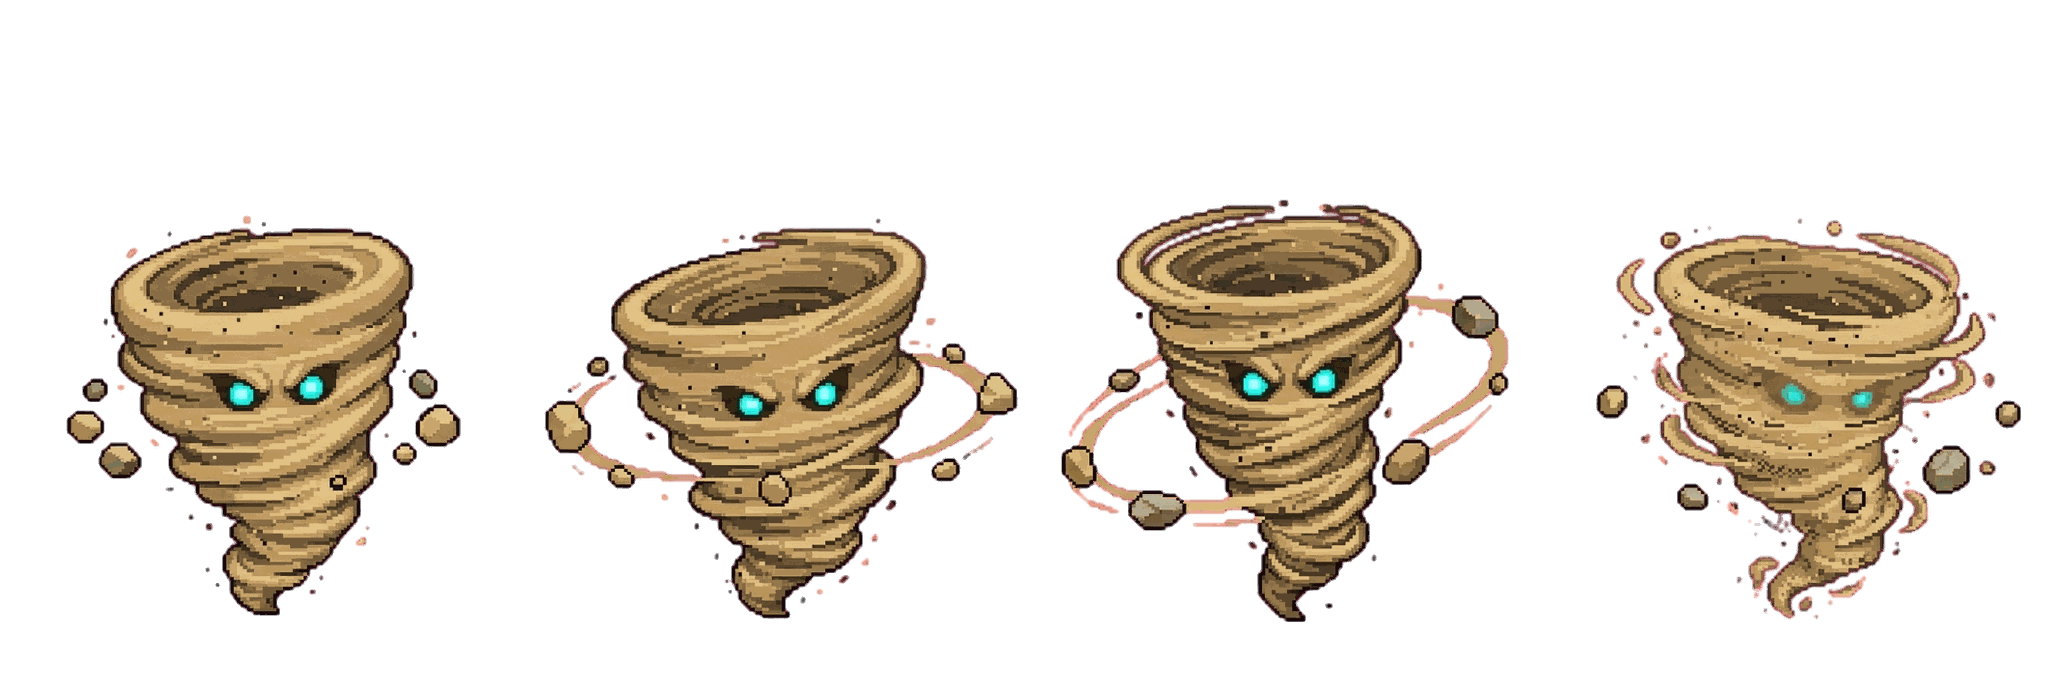
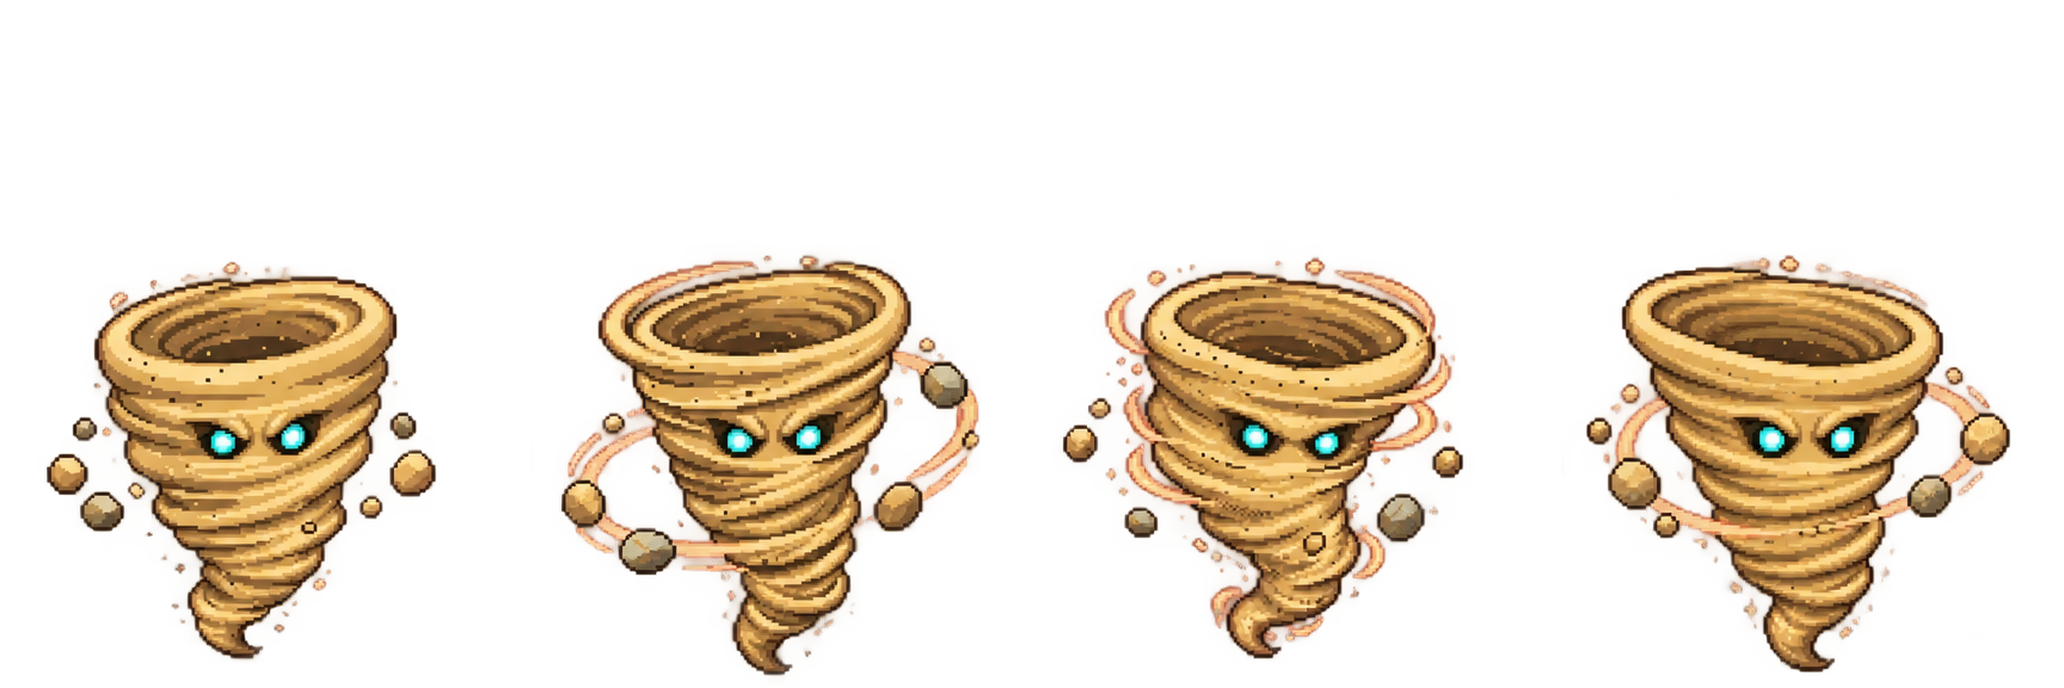
Round 272: the Dust Devil spins (#52)
Claude-Session: https://claude.ai/code/session_01XB2RMCaJ1aVVtBjSNk3FhS

diff --git a/assets/elaris-wildlife.js b/assets/elaris-wildlife.js
@@ -7,7 +7,7 @@ const ELARIS_WILDLIFE={
  cinderFox:{name:'Solar Scarab',icon:'☼',hp:38,attack:7,element:'fire',sheet:'solar-scarab',cycle:'.8s'}, // Round 269: the owner's eight-frame walk (four frames used)
  drownedHeron:{name:'Mirage Ibis',icon:'≈',hp:55,attack:9,element:'water',sheet:'mirage-ibis',cycle:'.8s'}, // Round 270: the owner's eight-frame walk (four frames used)
  blightAntler:{name:'Dune Scorpion',icon:'◆',hp:44,attack:8,element:'earth',sheet:'dune-scorpion',cycle:'.8s'}, // Round 271: the owner's eight-frame walk (four frames used)
- stormMoth:{name:'Dust Devil',icon:'≋',hp:52,attack:9,element:'air',sheet:'dust-devil',cycle:'.7s'},
+ stormMoth:{name:'Dust Devil',icon:'≋',hp:52,attack:9,element:'air',sheet:'dust-devil',cycle:'.8s'}, // Round 272: the owner's eight-frame spin (four frames used)
  // Round 22 mini-bosses (own sheets since Round 195).
  tidewardenElaris:{name:'The Cistern Warden',icon:'≈',hp:70,attack:11,armor:3,element:'water',sheet:'cistern-warden',cycle:'1.4s',boss:true,miniBoss:true},
  galeSovereign:{name:'The Noon Toller',icon:'🔔',hp:66,attack:11,armor:3,element:'air',sheet:'noon-toller',cycle:'1.2s',boss:true,miniBoss:true}
@@ -42,7 +42,7 @@ const cityMonsterArt=monsterArt;
 // Round 196: a sheet name with a folder ('sky/zenith-roc') is read from assets/monsters/<folder>/;
 // big:true draws it in the larger boss box.
 // Round 200: bump SPRITE_VERSION when sheets are re-cut, so browsers fetch the new images.
-const SPRITE_VERSION='271';
+const SPRITE_VERSION='272';
 function wildlifeSheetUrl(sheet){return 'assets/monsters/'+(sheet.includes('/')?sheet:'elaris/'+sheet)+'.png?v='+SPRITE_VERSION}
 monsterArt=function(id){const animal=ELARIS_WILDLIFE[id]||WILDLIFE_ART[id];if(!animal)return cityMonsterArt(id);return '<span class="monster-sprite wildlife-sprite'+(animal.big?' bloom-tyrant':'')+'" role="img" aria-label="'+animal.name+'" style="background-image:url('+wildlifeSheetUrl(animal.sheet)+');--wildlife-cycle:'+animal.cycle+'"></span>'};
 // Round 249: a boss node's sprite box was square (142px, sized for Neon Aftermath's boss pictures), which

diff --git a/index.html b/index.html
@@ -551,7 +551,7 @@ if(localStorage.getItem(SAVE_KEY))$('resumeBtn').classList.remove('hidden');
 addEventListener('resize',()=>{fitWorld();fitMap();renderTalentConnectors()});fitWorld();
 requestAnimationFrame(loop);
 </script>
-<script src="assets/elaris-wildlife.js?v=round271"></script>
+<script src="assets/elaris-wildlife.js?v=round272"></script>
 <script src="assets/solaris-data.js?v=round232"></script>
 <script src="assets/expansion.js?v=round265"></script>
 <script src="assets/encounter-depth.js?v=round246"></script>

diff --git a/CHANGES.md b/CHANGES.md
@@ -3496,6 +3496,16 @@ Playtest of Neon Aftermath's three relics (Moon Lens 5,4; Ember Sigil 5,7; Briar
 - Talent descriptions list the per-rank values. Tests updated: round76, chronospire,
   talent-matrix, card-variety, plating-armor.
 
+## Round 272: the Dust Devil spins
+
+- The owner sent an eight-frame spinning glide for Solaris's Dust Devil (`stormMoth`). It has moving sand ribbons,
+  orbiting stones and a curled funnel tip. The source strip is `assets/monsters/elaris/src/dust-devil-spin8.png`.
+- The owner aligned every frame on the cyan eyes, so frames 1, 3, 5 and 7 are cut with one shared window instead of
+  `compose_sprite_sheet.py`, which centres each pose on its base and would make the eyes jitter. The window puts the
+  funnel tip near the frame's bottom like the other creatures. The result is `assets/monsters/elaris/dust-devil.png`
+  (replacing the old sheet), then padded. The cycle is .8s, up from .7s, to match the owner's timing.
+- `SPRITE_VERSION` 272. New `tests/dust-devil.test.cjs`.
+
 ## Round 271: the Dune Scorpion scuttles
 
 - The owner sent an eight-frame, right-facing scuttle for Solaris's Dune Scorpion (`blightAntler`). The source strip is

diff --git a/CLAUDE.md b/CLAUDE.md
@@ -4,7 +4,7 @@ Aethercede is a browser card-battler/exploration game in vanilla JS with no
 build step. Open `index.html` directly. `compendium.html` is the card
 gallery; `arena.html` is a standalone prototype and is left untouched.
 
-**Read `CHANGES.md` first.** Every round of work (Round 1 to Round 271) is
+**Read `CHANGES.md` first.** Every round of work (Round 1 to Round 272) is
 logged there with its reasoning. Add a new `## Round N:` entry for each
 change set.
 
